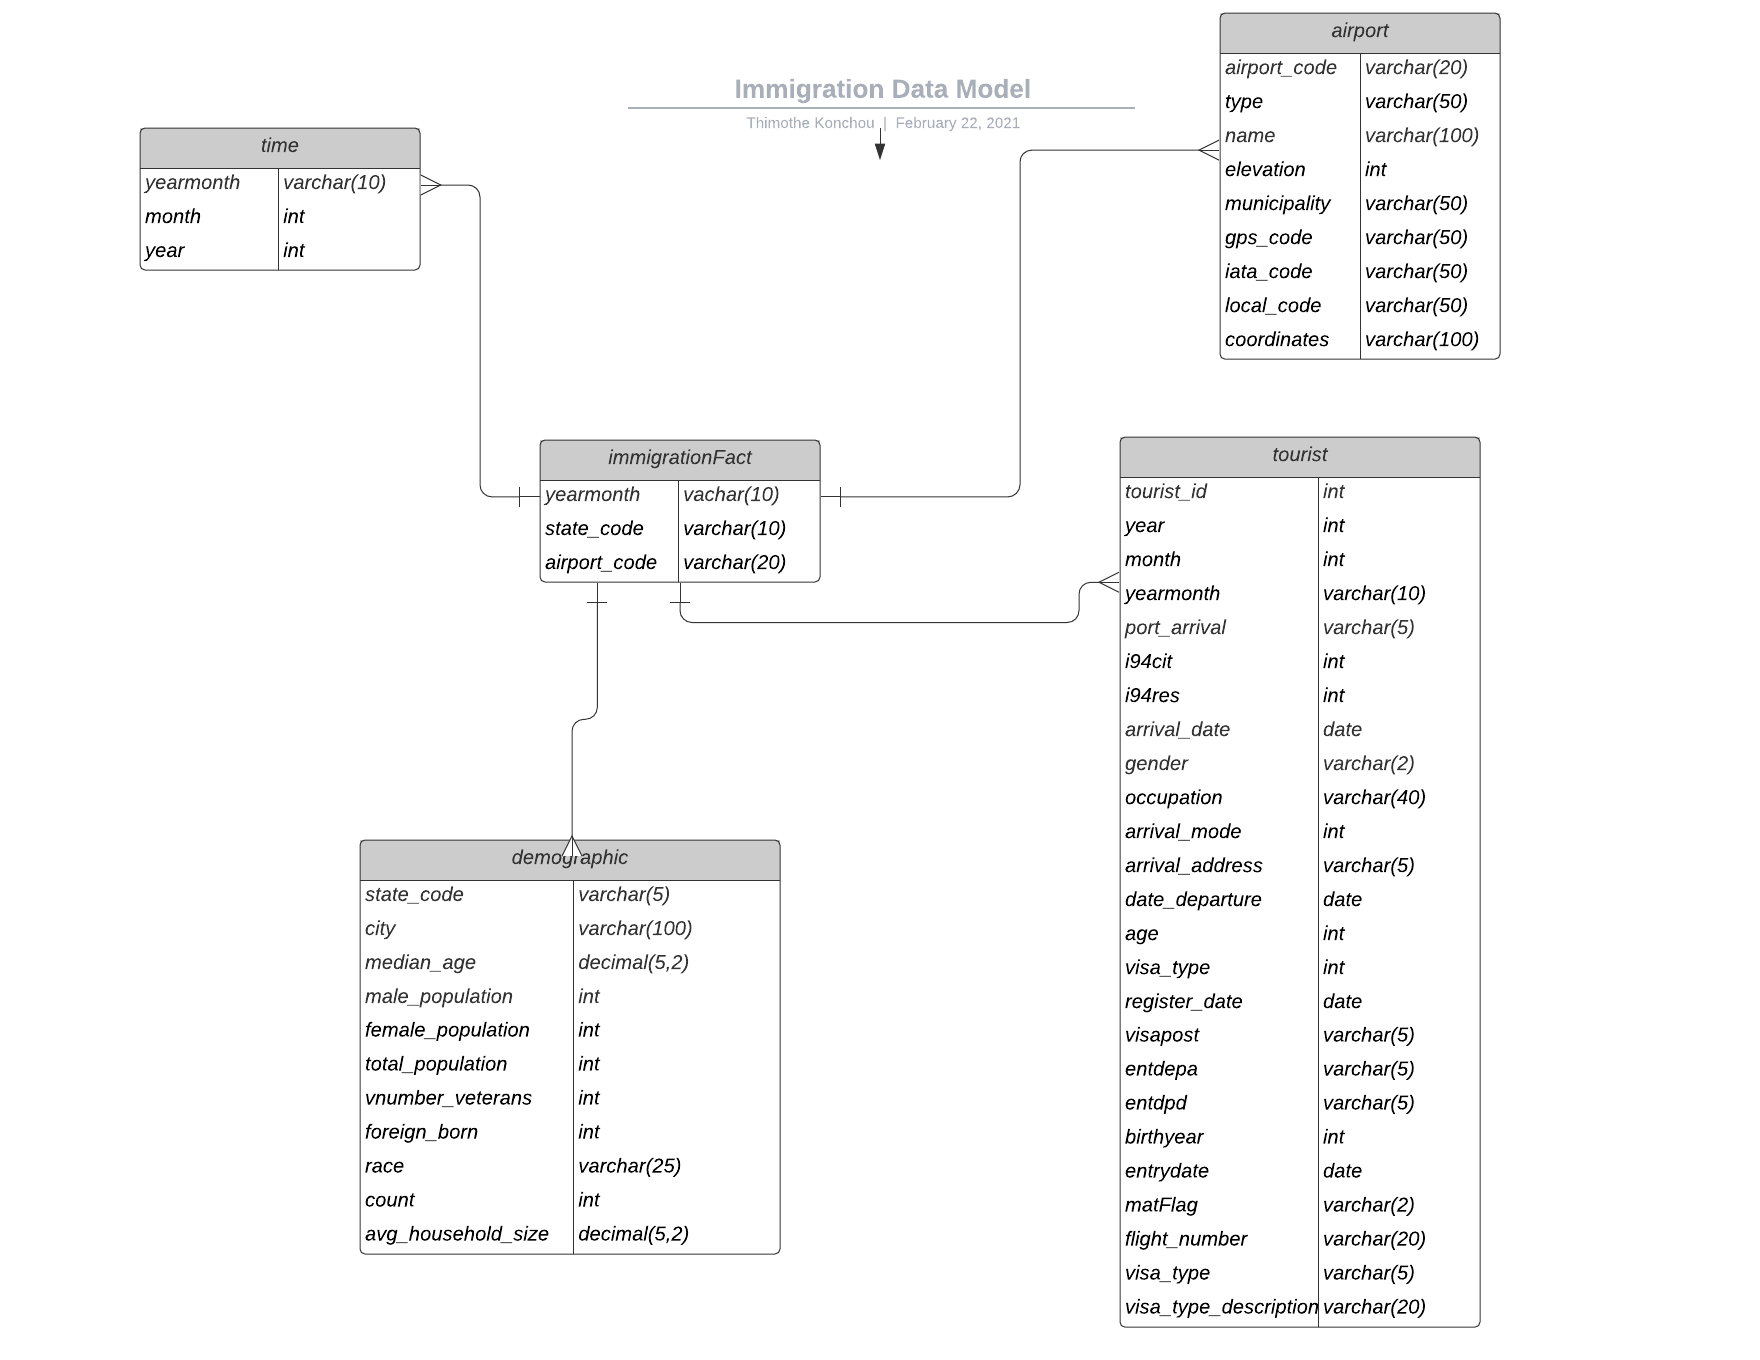
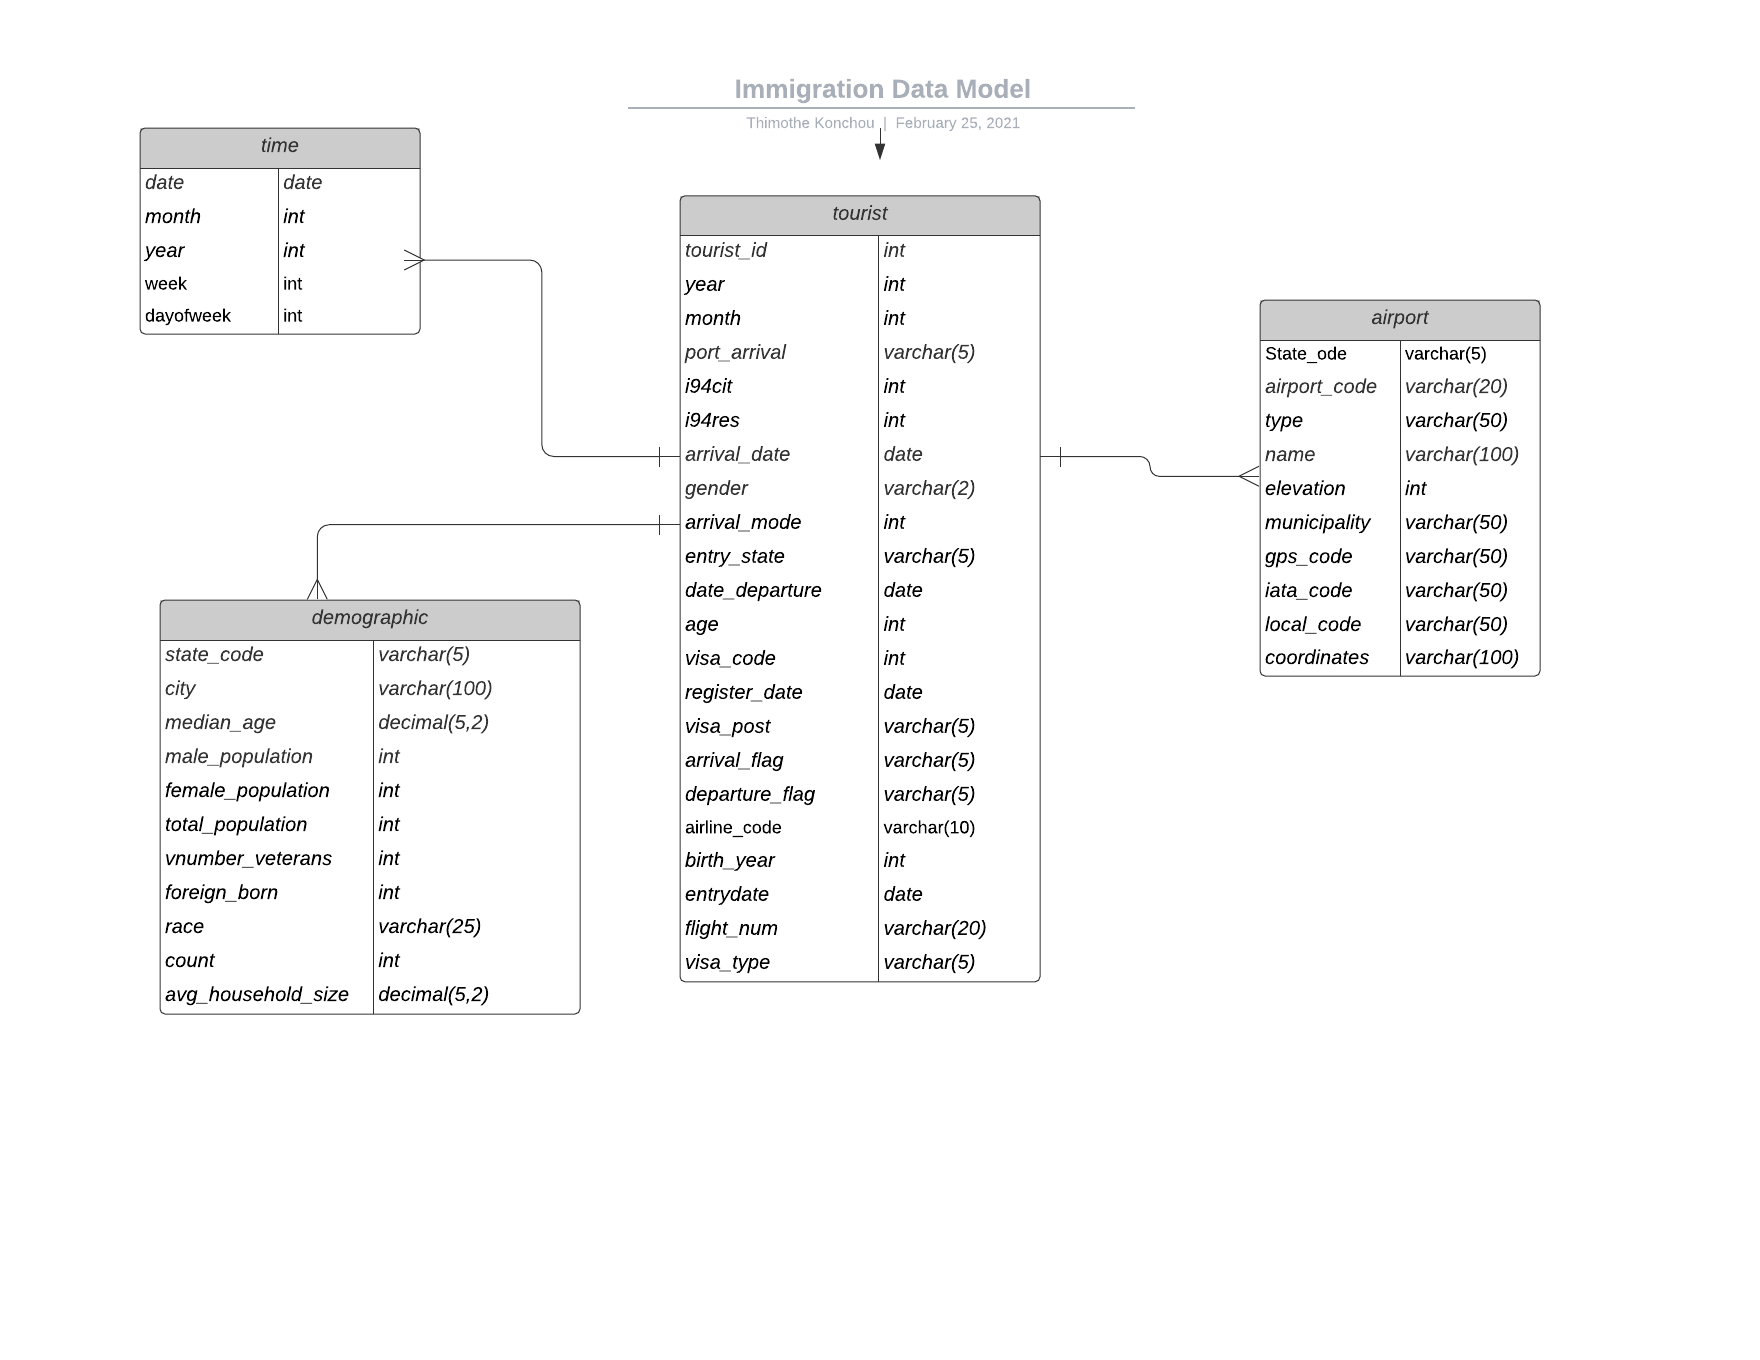
adding images'

diff --git a/etl.py b/etl.py
@@ -18,10 +18,23 @@ def create_spark_session():
     """
     Create the spark session , entry point of the program
     """
-    spark = SparkSession.builder\
-        .config("spark.jars.packages", "org.apache.hadoop:hadoop-aws:2.7.0")\
-        .getOrCreate()
+    spark = SparkSession.builder.\
+    config("spark.jars.packages","saurfang:spark-sas7bdat:2.0.0-s_2.11")\
+    .enableHiveSupport().getOrCreate()
     return spark
+
+#udf to convert sas date
+sas_date_udf = udf(lambda x: x if x is None else (timedelta(days=x) + datetime(1960, 1, 1)).strftime(date_format))
+
+def convert_sas_date(df, cols):
+    """
+      Convert date from SAS date (number of days since 1/1/1960) to datetime 
+      :param date: string, timedelta, list, tuple, 1-d array, or Series of SAS date(s) 
+      :return: corresponding datetime date(s) 
+    """
+    for c in [c for c in cols if c in df.columns]:
+        df = df.withColumn(c, sas_date_udf(df[c]))
+    return df
 
 def read_data(spark,input_data,format='csv',columns='*',test_size=None,**options):
     """[summary]
@@ -108,21 +121,112 @@ def process_demographic_data(spark,input_data,output_path,test_size=None,**optio
     save_data(demographic_df,output_path,mode="overwrite",out_format='parquet',columns=columns,**options)
 
 
+def process_immigration_data(spark,input_data,format='csv',mode="overwrite",columns='*',test_size=None,**options):
+    
+    df_spark =spark.read.format('com.github.saurfang.sas.spark').load(input_data)
 
+    #convert sas date to date
+    cols =['arrdate','depdate']
+    df_spark = convert_sas_date(df_spark,cols)
+   
+    df_spark = df_spark.withColumn("arrdate",df_spark['arrdate'].cast(DateType()))
+    df_spark = df_spark.withColumn("depdate",df_spark['depdate'].cast(DateType()))
+
+
+    columns = ['tourist_id','year','month','i94cit','i94res','port_arrival','arrival_date','arrival_mode','entry_state',
+                'departure_date','age','visa_code','count','register_date','visa_post','arrival_flag','departure_flag','status_flag',
+                'match_flag','birth_year','dtaddto','gender','airline_code','admission_num','flight_num','vista_type']
+    
+
+    #renaming columns
+    df_spark = df_spark.withColumnRenamed('cicid','tourist_id'). \
+    withColumnRenamed('i94yr','year'). \
+    withColumnRenamed('i94mon','month'). \
+    withColumnRenamed('i94cit','i94cit'). \
+    withColumnRenamed('i94res','i94res'). \
+    withColumnRenamed('i94port','port_arrival'). \
+    withColumnRenamed('arrdate','arrival_date'). \
+    withColumnRenamed('i94mode','arrival_mode'). \
+    withColumnRenamed('i94addr','entry_state'). \
+    withColumnRenamed('depdate','departure_date'). \
+    withColumnRenamed('i94bir','age'). \
+    withColumnRenamed('i94visa','visa_code'). \
+    withColumnRenamed('dtadfile','register_date'). \
+    withColumnRenamed('visapost','visa_post'). \
+    withColumnRenamed('entdepa','arrival_flag'). \
+    withColumnRenamed('entdepd','departure_flag'). \
+    withColumnRenamed('entdepu','status_flag'). \
+    withColumnRenamed('matflag','match_flag'). \
+    withColumnRenamed('biryear','birth_year'). \
+    withColumnRenamed('dtaddto','dtaddto'). \
+    withColumnRenamed('gender','gender'). \
+    withColumnRenamed('airline','airline_code'). \
+    withColumnRenamed('admnum','admission_num').\
+    withColumnRenamed('fltno','flight_num').\
+    withColumnRenamed('visatype','vista_type')
+
+    df_spark=df_spark.select(columns)
+
+    # saving data
+    save_data(df_spark,output_path,mode=mode,out_format='parquet',columns=columns,**options)
+    
+    
+def process_all_files(input_path,output_path):
+    
+    sas_files = [os.path.join(input_path, f) for f in os.listdir(input_path) if f.endswith('.sas7bdat')]
+    
+    for file in sas_files:
+        try:
+            #tif spark.read.load(output_path).count() >0:
+            process_immigration_data(spark,file,mode="append",format='sas7bdat',partitionBy=["year","month"],columns='*',test_size=None)
+        except:
+            process_immigration_data(spark,file,mode="overwrite",format='sas7bdat',partitionBy=["year","month"],columns='*',test_size=None)
+   
+  
+def process_time_table(spark,immigration_path,time_output):
+    df = spark.read.parquet(immigration_path)
+    arrival_date= df.withColumn("arrival_date",df['arrival_date'].cast(DateType())).distinct()
+    departure_date= df.withColumn("departure_date",df['departure_date'].cast(DateType())).distinct()
+    time_table = arrival_date.union(departure_date)
+    
+    # write time table to parquet files partitioned by year and month
+    time_table = df.select('arrival_date').withColumn('day',dayofmonth('arrival_date'))
+    time_table = time_table.withColumn('week',weekofyear('arrival_date'))
+    time_table = time_table.withColumn('month',month('arrival_date'))
+    time_table = time_table.withColumn('year',year('arrival_date'))
+    time_table = time_table.withColumn("dayofweek", dayofweek('arrival_date'))
+    time_table=time_table.dropDuplicates()
+    time_table=time_table.withColumnRenamed('arrival_date', 'date')
+    # write time table to parquet files partitioned by year and month
+    # saving data
+   
+    save_data(time_table,time_output,mode="overwrite",out_format='parquet',partitionBy=["year","month"])
+    
 
 
 def main():
     spark = create_spark_session()
-    #input_data="s3a://thim-bucket-2022/data/airport-codes_csv.csv"
-    #output_path="s3a://immigration-schema/airport.parquet"
+    
+    #process airport files
     input_data="./data/airport-codes_csv.csv" 
     output_path="./data/airport.parquet"
-    #process_airport_data(spark,input_data,output_path,test_size=None,header=True)
-
+    process_airport_data(spark,input_data,output_path,test_size=None,header=True)
+    
+    #Process demographic file
     input_data="./data/us-cities-demographics.csv" 
     output_path="./data/demographic.parquet"
     process_demographic_data(spark,input_data,output_path,test_size=None,header=True,delimiter=';')
     
+    #Process immingration file
+    input_path = '../../data/18-83510-I94-Data-2016'
+    output_path="./data/immigration.parquet"
+    process_all_files(input_path,output_path)
+
+    #Process time
+    immigration_path ="./data/immigration.parquet"
+    time_output= "./data/time.parquet"
+    process_time_table(spark,immigration_path,time_output)
+
 
 
 if __name__=='__main__':

diff --git a/README.md b/README.md
@@ -1,4 +1,4 @@
-# ETL-from-S3-To-Redshift-using-Spark
+# Creating Data Lake Using Apache Spark
 In this project, we are going to use boto3 sdk to load files from our local environment to AWS s3, then create a Data Lake using apache Spark.
 
 ## Scope the Project and Data Gathering
@@ -12,16 +12,18 @@ The purpose of the project is to analyze the tourists frequency in the USA by  m
 - Analyze in which month we should expect more tourists
 - State ranking for tourists destination
 - Correlate the origin of tourists with USA population by race
+- calculating the average stay for tourists
 - Busiest airport ranking etc.. 
 
 ## Explore and Assess the Data
 
 ### immigration Dataset
 ![image](https://raw.githubusercontent.com/tmbothe/ETL-FROM-S3-To-Redshift-using-Spark/main/images/immigration_summary.PNG)
-We are going to explore as subset of immigration data for april 2016.  As we can see on the picture above, it has 3 096 313 rows and columns. Here are some observations:
+We are going to explore as subset of immigration data use in the analyis is 12 months of data for the year 2016.  We can see the distribution of the data in different months on the figure below:
+![image](https://raw.githubusercontent.com/tmbothe/ETL-FROM-S3-To-Redshift-using-Spark/main/images/immigration_count.PNG)
 - The field **I94ADDR** is the state destination of the tourist, we see that that column has about 152 592 missing values
 - We see that **i94mode** which is the mode by which the tourist entered the USA territory has missing values as well.
-- The occupation of our tourists is almost unknown with only 8126 values out of  3 096 313
+- The occupation of our tourists is almost unknown with only 8126.
 - We see that the **cicid** column that has information about each tourist is Unique , so there is no duplicated data
 
 ### Demographic Dataset
@@ -34,4 +36,39 @@ As we can see on the immage above, this file has about 55075 rows of diffent air
 
 ## Data Model
 
+The immigration data is main table for this model. We can link to the airport table using state code. We can also link immigration to demographic using state code as well , then derive a date table which is the set of all dates we have on file.
+We this level of details, we should be able to answer different questions regarding ethinicity or frequency of tourists by airport or states.
+
 ![image](https://raw.githubusercontent.com/tmbothe/ETL-FROM-S3-To-Redshift-using-Spark/main/images/immigration_model.png)
+
+
+ ## Project Structure
+ ```
+ The project has two main files, here is the description:
+   Data-Lake-with-Apache-Spark
+    |
+    |   data
+    |      | airport-codes_csv.csv
+    |      | us-cities-demographics.csv
+    |      | 
+    |   images
+    |      | airport_summary.PNG
+    |      | demographic_summary.PNG
+    |      | immigration_count.PNG      
+    |      | immigration_model.png
+    |      | immigration_summary.PNG
+    |   etl.py
+    |   etl.ipynb
+    |   dl.cfg
+    |   README.md
+ ``` 
+
+   1 - `etl.py` : This is the entry point of the program. Running this script will read the raw files, transform and write the parquet files to the specified output.<br>
+   
+## Installation 
+
+- Install [python 3.8](https://www.python.org)
+- Install [Apache pyspark](hhttps://pypi.org/project/pyspark/)
+- Clone the current repository. 
+- Create IAM user in AWS and get the user access key and secret key.
+- Fill the dl.cfg with the access and secret key
